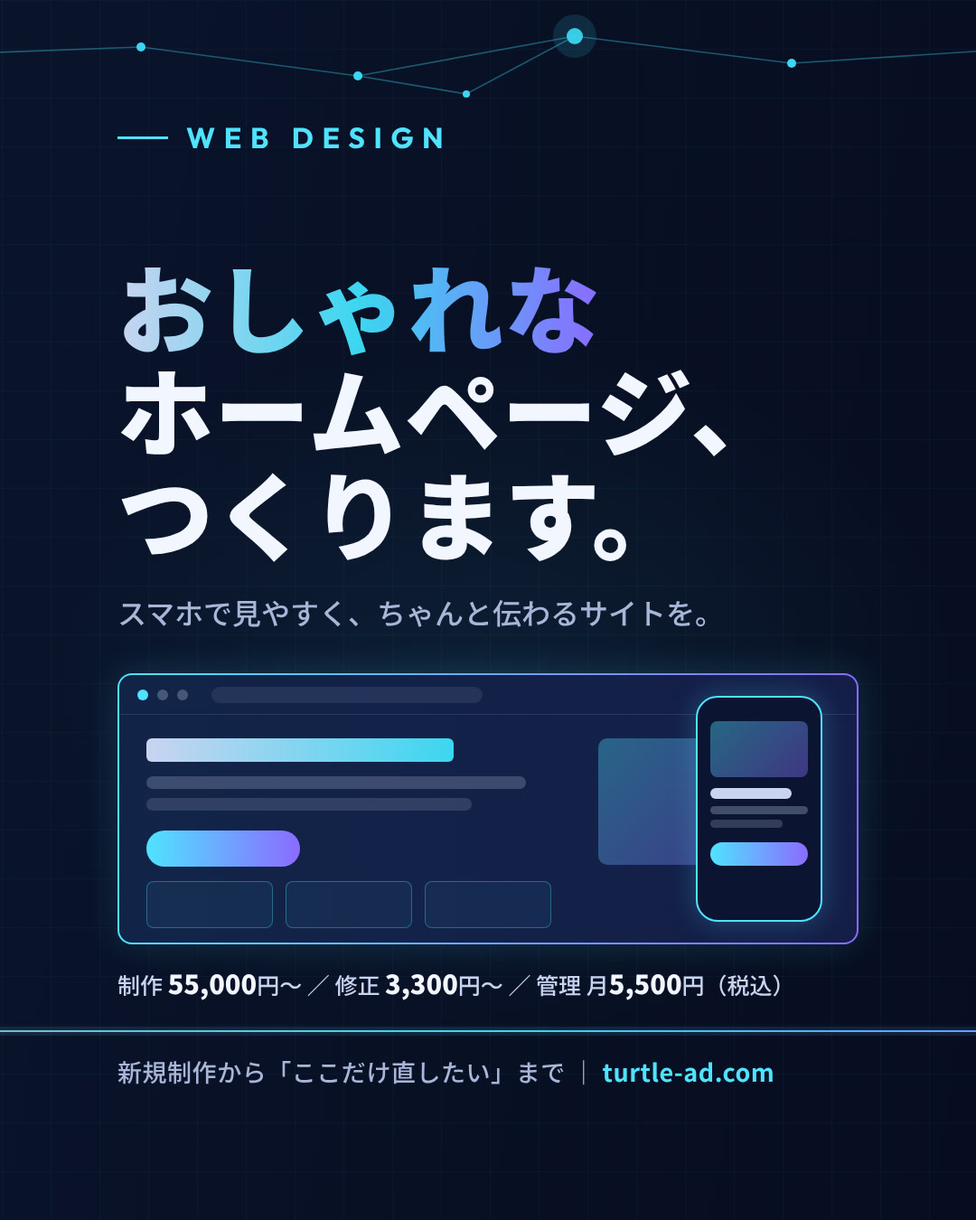
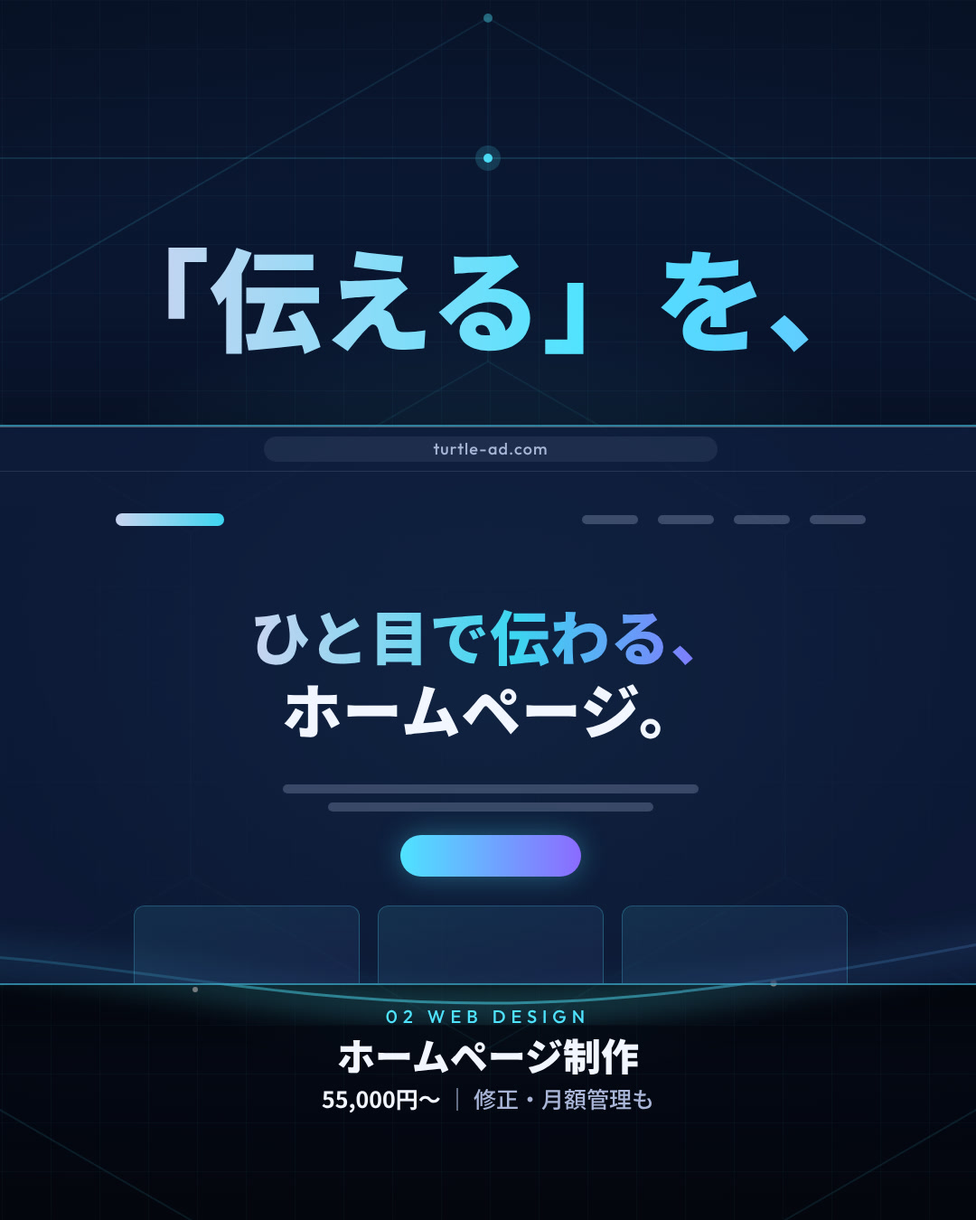
固定3枚を1枚絵のパノラマに作り直し(見出しを3枚に分割、ブラウザ画面が境目をまたぐ)
Claude-Session: https://claude.ai/code/session_01AEUD54a1kfyYiAYXhJ5bzU

diff --git a/img/pinned/pin_master.html b/img/pinned/pin_master.html
@@ -1,165 +1,145 @@
 <!doctype html>
 <html lang="ja"><head><meta charset="utf-8">
-<link href="https://fonts.googleapis.com/css2?family=Noto+Sans+JP:wght@500;700;900&family=Outfit:wght@500;700&display=swap" rel="stylesheet">
+<link href="https://fonts.googleapis.com/css2?family=Noto+Sans+JP:wght@500;700;900&family=Outfit:wght@300;500;700&display=swap" rel="stylesheet">
 <link href="https://fonts.googleapis.com/css2?family=M+PLUS+Rounded+1c:wght@800&text=turtle%20ad&display=swap" rel="stylesheet">
 <style>
 *{margin:0;padding:0;box-sizing:border-box}
-html,body{width:3128px;height:1350px;background:#05091a}
+html,body{width:3128px;height:1350px;background:#04070f}
 .m{position:relative;width:3128px;height:1350px;overflow:hidden;font-family:'Noto Sans JP',sans-serif;color:#f2f6ff;
  background:
-  radial-gradient(700px 620px at 2900px 150px, rgba(40,110,170,.55), transparent 70%),
-  radial-gradient(760px 560px at 1564px 760px, rgba(79,227,255,.07), transparent 70%),
-  radial-gradient(700px 640px at 300px 1250px, rgba(80,50,160,.50), transparent 70%),
-  linear-gradient(100deg,#0b1a36 0%,#081024 50%,#06091a 100%);}
-.grid{position:absolute;inset:0;background-image:linear-gradient(rgba(79,227,255,.035) 1px,transparent 1px),linear-gradient(90deg,rgba(79,227,255,.035) 1px,transparent 1px);background-size:54px 54px}
-svg.deco{position:absolute;left:0;top:0;width:3128px;height:1350px}
-.t{position:absolute;top:0;width:1080px;height:1350px}
-.label{position:absolute;left:130px;top:132px;display:flex;align-items:center;gap:20px;font-family:'Outfit',sans-serif;font-weight:700;font-size:32px;letter-spacing:.3em;color:#4fe3ff}
-.label i{display:block;width:56px;height:3px;background:#4fe3ff}
-.h{position:absolute;left:130px;font-weight:900;line-height:1.08;letter-spacing:.01em}
-.g{background:linear-gradient(90deg,#c9d4f0 0%,#3CD6F0 50%,#8b6bff 100%);-webkit-background-clip:text;background-clip:text;color:transparent}
-.sub{position:absolute;left:130px;font-weight:700;color:#c9d4f0}
-.desc{position:absolute;left:130px;font-size:32px;font-weight:500;color:#a9b6d8;line-height:1.6}
-.card{position:absolute;border-radius:16px;background:rgba(16,28,60,.72);border:1.5px solid rgba(169,182,216,.16)}
-.hi{border:2px solid transparent;background-image:linear-gradient(rgba(14,26,62,.95),rgba(14,26,62,.95)),linear-gradient(90deg,#4fe3ff,#8b6bff);background-origin:border-box;background-clip:padding-box,border-box;box-shadow:0 0 40px rgba(79,227,255,.16)}
-.foot{position:absolute;left:130px;top:1166px;font-size:27px;font-weight:500;color:#a9b6d8;letter-spacing:.02em}
-.foot b{color:#4fe3ff;font-weight:700}
-/* tile1 list */
-.list{left:130px;top:770px;width:820px;height:350px;padding:26px 40px}
-.row{display:flex;align-items:center;height:59.6px;border-bottom:1px solid rgba(169,182,216,.12)}
-.row:last-child{border-bottom:none}
-.row .no{font-family:'Outfit',sans-serif;font-weight:700;font-size:26px;letter-spacing:.06em;width:70px;color:#4fe3ff}
-.row .nm{font-size:32px;font-weight:700}
-.row .tag{margin-left:auto;font-size:22px;font-weight:500;color:#a9b6d8}
-.logo{position:absolute;left:740px;top:118px;display:flex;align-items:center;gap:12px}
-.logo svg{width:56px;height:56px;filter:drop-shadow(0 0 10px rgba(60,214,240,.45))}
-.logo span{font-family:'M PLUS Rounded 1c',sans-serif;font-weight:800;font-size:34px}
+  radial-gradient(800px 640px at 1564px 760px, rgba(79,227,255,.20), transparent 70%),
+  radial-gradient(700px 560px at 2650px 420px, rgba(139,107,255,.28), transparent 70%),
+  radial-gradient(700px 600px at 420px 1000px, rgba(40,110,190,.22), transparent 70%),
+  linear-gradient(180deg,#0b1a36 0%,#081024 55%,#04070f 100%);}
+.vig{position:absolute;inset:0;background:radial-gradient(1900px 900px at 1564px 700px, transparent 55%, rgba(2,4,10,.65) 100%)}
+.grid{position:absolute;inset:0;background-image:linear-gradient(rgba(79,227,255,.04) 1px,transparent 1px),linear-gradient(90deg,rgba(79,227,255,.04) 1px,transparent 1px);background-size:54px 54px}
+svg.layer{position:absolute;left:0;top:0;width:3128px;height:1350px}
+.ab{position:absolute}
+/* top row */
+.logo{left:110px;top:140px;display:flex;align-items:center;gap:14px}
+.logo svg{width:58px;height:58px;filter:drop-shadow(0 0 10px rgba(60,214,240,.5))}
+.logo span{font-family:'M PLUS Rounded 1c',sans-serif;font-weight:800;font-size:40px}
 .logo em{font-style:normal;color:#3CD6F0}
-/* tile2 browser */
-.br{left:130px;top:745px;width:820px;height:300px;overflow:hidden}
-.bar{height:44px;border-bottom:1px solid rgba(169,182,216,.16);display:flex;align-items:center;gap:10px;padding:0 20px}
-.bar i{width:12px;height:12px;border-radius:50%;background:rgba(169,182,216,.35)}
-.bar i:first-child{background:#4fe3ff}
-.bar span{margin-left:16px;height:18px;width:300px;border-radius:9px;background:rgba(169,182,216,.12)}
-.hero{position:absolute;left:30px;top:70px;width:470px}
-.hero .l1{height:26px;width:340px;border-radius:6px;background:linear-gradient(90deg,#c9d4f0,#3CD6F0)}
-.hero .l2{margin-top:16px;height:14px;width:420px;border-radius:7px;background:rgba(169,182,216,.28)}
-.hero .l3{margin-top:10px;height:14px;width:360px;border-radius:7px;background:rgba(169,182,216,.2)}
-.hero .btn{margin-top:22px;height:40px;width:170px;border-radius:20px;background:linear-gradient(90deg,#4fe3ff,#8b6bff)}
-.tiles{position:absolute;left:30px;top:228px;display:flex;gap:14px}
-.tiles i{display:block;width:140px;height:52px;border-radius:8px;border:1.5px solid rgba(79,227,255,.35);background:rgba(79,227,255,.05)}
-.img{position:absolute;left:530px;top:70px;width:180px;height:140px;border-radius:10px;background:linear-gradient(135deg,rgba(79,227,255,.35),rgba(139,107,255,.35));}
-.ph{position:absolute;left:770px;top:770px;width:140px;height:250px;border-radius:24px;background:#0b1430;border:2px solid #4fe3ff;box-shadow:0 0 30px rgba(79,227,255,.25);padding:26px 14px}
-.ph .a{height:62px;border-radius:8px;background:linear-gradient(135deg,rgba(79,227,255,.4),rgba(139,107,255,.4))}
-.ph .b{margin-top:12px;height:12px;border-radius:6px;background:#c9d4f0;width:90px}
-.ph .c{margin-top:8px;height:9px;border-radius:5px;background:rgba(169,182,216,.35)}
-.ph .d{margin-top:6px;height:9px;border-radius:5px;background:rgba(169,182,216,.25);width:80px}
-.ph .e{margin-top:16px;height:26px;border-radius:13px;background:linear-gradient(90deg,#4fe3ff,#8b6bff)}
-.price{position:absolute;left:130px;top:1066px;font-size:25px;font-weight:500;color:#c9d4f0;line-height:1.5}
-.price b{font-weight:900;color:#f2f6ff;font-size:29px}
-/* tile3 */
-.svc{left:130px;width:480px;padding:28px 32px}
-.svc .k{font-size:36px;font-weight:900}
-.svc .s{margin-top:10px;font-size:26px;font-weight:500;color:#a9b6d8;line-height:1.55}
-.svc .p{margin-top:12px;font-size:28px;font-weight:700;color:#c9d4f0}
-.svc .p b{font-size:46px;font-weight:900;color:#4fe3ff;margin:0 4px}
-.pf{position:absolute;left:650px;top:600px;width:290px;height:515px;border-radius:40px;border:2.5px solid #4fe3ff;background:linear-gradient(180deg,rgba(20,40,90,.9),rgba(10,16,40,.95));box-shadow:0 0 50px rgba(79,227,255,.22);overflow:hidden}
-.pf .notch{position:absolute;left:105px;top:14px;width:80px;height:10px;border-radius:5px;background:rgba(169,182,216,.3)}
-.pf .scene{position:absolute;left:18px;top:44px;width:254px;height:300px;border-radius:18px;background:
- radial-gradient(160px 140px at 70% 30%, rgba(139,107,255,.55), transparent 70%),
- radial-gradient(160px 160px at 25% 75%, rgba(79,227,255,.45), transparent 70%), #101c3c}
-.pf .play{position:absolute;left:97px;top:150px;width:96px;height:96px;border-radius:50%;background:rgba(255,255,255,.14);border:2px solid rgba(255,255,255,.6)}
-.pf .play:after{content:'';position:absolute;left:38px;top:28px;border-left:30px solid #fff;border-top:19px solid transparent;border-bottom:19px solid transparent}
-.pf .reel{position:absolute;left:30px;top:58px;font-family:'Outfit',sans-serif;font-weight:700;font-size:18px;letter-spacing:.2em;color:#fff;opacity:.85}
-.pf .cap{position:absolute;left:30px;top:362px;width:230px}
-.pf .cap i{display:block;height:14px;border-radius:7px;background:#f2f6ff;margin-bottom:10px}
-.pf .cap i:nth-child(2){width:160px;background:rgba(242,246,255,.6)}
-.pf .wave{position:absolute;left:30px;top:440px;display:flex;align-items:center;gap:6px;height:44px}
-.pf .wave i{display:block;width:6px;border-radius:3px;background:linear-gradient(180deg,#4fe3ff,#8b6bff)}
+.tagr{right:108px;top:156px;font-family:'Outfit',sans-serif;font-weight:500;font-size:24px;letter-spacing:.3em;color:#a9c0ff}
+/* browser */
+.br{left:700px;top:470px;width:1730px;height:620px;border-radius:20px;background:rgba(14,28,60,.78);border:2px solid rgba(79,227,255,.5);box-shadow:0 40px 120px rgba(0,0,0,.6), inset 0 1px 0 rgba(255,255,255,.25);overflow:hidden}
+.br .bar{height:50px;border-bottom:1px solid rgba(169,182,216,.16);position:relative}
+.br .dots{position:absolute;left:24px;top:19px;display:flex;gap:10px}
+.br .dots i{width:12px;height:12px;border-radius:50%;background:rgba(169,182,216,.3)}
+.br .url{position:absolute;left:614px;top:11px;width:502px;height:28px;border-radius:14px;background:rgba(169,182,216,.10);font-family:'Outfit',sans-serif;font-size:18px;letter-spacing:.06em;color:#a9b6d8;text-align:center;line-height:28px}
+.br .nav{position:absolute;left:450px;top:96px;width:830px;display:flex;justify-content:space-between;align-items:center}
+.br .nav .lg{width:120px;height:14px;border-radius:7px;background:linear-gradient(90deg,#c9d4f0,#3CD6F0)}
+.br .nav .mn{display:flex;gap:22px}.br .nav .mn i{display:block;width:62px;height:10px;border-radius:5px;background:rgba(169,182,216,.3)}
+.br .eyebrow{position:absolute;left:450px;top:172px;width:830px;text-align:center;font-family:'Outfit',sans-serif;font-weight:500;font-size:20px;letter-spacing:.32em;color:#4fe3ff}
+.br .ttl{position:absolute;left:450px;top:190px;width:830px;text-align:center;font-weight:900;font-size:66px;line-height:1.22;letter-spacing:.01em}
+.br .ttl span{background:linear-gradient(90deg,#c9d4f0,#3CD6F0 55%,#8b6bff);-webkit-background-clip:text;background-clip:text;color:transparent}
+.br .lead{position:absolute;left:615px;top:396px;width:500px}
+.br .lead i{display:block;height:10px;border-radius:5px;background:rgba(169,182,216,.28);margin:0 auto 10px}
+.br .cta{position:absolute;left:765px;top:452px;width:200px;height:46px;border-radius:23px;background:linear-gradient(90deg,#4fe3ff,#8b6bff);box-shadow:0 0 30px rgba(79,227,255,.35)}
+.br .cards{position:absolute;left:470px;top:530px;display:flex;gap:20px}
+.br .cards i{display:block;width:250px;height:120px;border-radius:12px;border:1px solid rgba(79,227,255,.25);background:linear-gradient(160deg,rgba(79,227,255,.10),rgba(139,107,255,.08))}
+/* chat */
+.chat{left:150px;top:600px;width:750px;height:450px;border-radius:22px;background:rgba(16,30,64,.9);border:1.5px solid rgba(79,227,255,.6);box-shadow:0 0 60px rgba(79,227,255,.25), 0 30px 80px rgba(0,0,0,.55), inset 0 1px 0 rgba(255,255,255,.2);padding:28px 34px}
+.chat .hd{display:flex;align-items:center;gap:12px;font-family:'Outfit',sans-serif;font-weight:700;font-size:20px;letter-spacing:.24em;color:#a9c0ff}
+.chat .hd i{width:12px;height:12px;border-radius:50%;background:#4fe3ff;box-shadow:0 0 12px #4fe3ff}
+.chat .u{margin:34px 0 0 auto;width:fit-content;max-width:520px;padding:18px 26px;border-radius:22px 22px 6px 22px;background:linear-gradient(90deg,rgba(79,227,255,.22),rgba(139,107,255,.22));border:1px solid rgba(79,227,255,.35);font-size:28px;font-weight:700}
+.chat .a{margin-top:26px;width:560px;padding:22px 26px;border-radius:22px 22px 22px 6px;background:rgba(10,20,46,.9);border:1px solid rgba(169,182,216,.18)}
+.chat .a .who{display:flex;align-items:center;gap:10px;margin-bottom:16px}
+.chat .a .who b{width:30px;height:30px;border-radius:50%;background:radial-gradient(circle at 35% 35%,#4fe3ff,#8b6bff)}
+.chat .a .who span{font-family:'Outfit',sans-serif;font-size:18px;letter-spacing:.2em;color:#a9b6d8}
+.chat .a i{display:block;height:12px;border-radius:6px;margin-bottom:12px;background:linear-gradient(90deg,rgba(79,227,255,.75),rgba(139,107,255,.5));box-shadow:0 0 14px rgba(79,227,255,.35)}
+/* phone */
+.ph{left:2350px;top:430px;width:360px;height:680px;border-radius:52px;padding:3px;background:linear-gradient(160deg,#4fe3ff,#8b6bff);box-shadow:0 0 70px rgba(139,107,255,.35), 0 40px 100px rgba(0,0,0,.6)}
+.ph .in{position:relative;width:100%;height:100%;border-radius:49px;overflow:hidden;background:
+  radial-gradient(260px 240px at 70% 28%, rgba(139,107,255,.85), transparent 70%),
+  radial-gradient(280px 260px at 25% 62%, rgba(40,130,220,.75), transparent 70%),
+  linear-gradient(180deg,#141a4a,#081024)}
+.ph .notch{position:absolute;left:130px;top:16px;width:94px;height:26px;border-radius:13px;background:#04070f}
+.ph .reel{position:absolute;left:28px;top:62px;font-family:'Outfit',sans-serif;font-weight:700;font-size:18px;letter-spacing:.26em;color:#fff;opacity:.9}
+.ph .play{position:absolute;left:127px;top:250px;width:106px;height:106px;border-radius:50%;background:rgba(255,255,255,.16);border:2px solid rgba(255,255,255,.7);backdrop-filter:blur(4px)}
+.ph .play:after{content:'';position:absolute;left:42px;top:31px;border-left:34px solid #fff;border-top:21px solid transparent;border-bottom:21px solid transparent}
+.ph .cap{position:absolute;left:50%;transform:translateX(-50%);top:478px;white-space:nowrap;padding:10px 22px;border-radius:10px;background:rgba(4,7,15,.72);font-size:32px;font-weight:900}
+.ph .prog{position:absolute;left:28px;right:28px;top:600px;height:6px;border-radius:3px;background:rgba(255,255,255,.25)}
+.ph .prog:before{content:'';position:absolute;left:0;top:0;bottom:0;width:58%;border-radius:3px;background:linear-gradient(90deg,#4fe3ff,#8b6bff)}
+.ph .side{position:absolute;right:20px;top:330px;display:flex;flex-direction:column;gap:22px}
+.ph .side i{display:block;width:34px;height:34px;border-radius:50%;background:rgba(255,255,255,.22)}
+/* bottom */
+.svc{top:1112px}
+.svc .no{font-family:'Outfit',sans-serif;font-weight:500;font-size:20px;letter-spacing:.3em;color:#4fe3ff}
+.svc .nm{margin-top:6px;font-size:42px;font-weight:900;line-height:1.15}
+.svc .ds{margin-top:6px;font-size:25px;font-weight:500;color:#a9b6d8}
+.svc .ds b{color:#f2f6ff;font-weight:700}
 </style></head><body><div class="m">
 <div class="grid"></div>
 
-<svg class="deco" viewBox="0 0 3128 1350">
+<!-- back svg: big hexagon, top connector, light flow -->
+<svg class="layer" viewBox="0 0 3128 1350">
  <defs>
-  <linearGradient id="hz" x1="0" x2="1" y1="0" y2="0">
-   <stop offset="0" stop-color="#c9d4f0" stop-opacity=".15"/><stop offset=".15" stop-color="#c9d4f0" stop-opacity=".7"/>
-   <stop offset=".5" stop-color="#3CD6F0"/><stop offset=".85" stop-color="#8b6bff"/><stop offset="1" stop-color="#8b6bff" stop-opacity=".2"/>
+  <linearGradient id="flow" gradientUnits="userSpaceOnUse" x1="0" y1="0" x2="3128" y2="0">
+   <stop offset="0" stop-color="#3CD6F0" stop-opacity=".2"/><stop offset=".15" stop-color="#4fe3ff"/><stop offset=".55" stop-color="#4fe3ff"/><stop offset=".85" stop-color="#8b6bff"/><stop offset="1" stop-color="#8b6bff" stop-opacity=".2"/>
   </linearGradient>
+  <filter id="blur"><feGaussianBlur stdDeviation="14"/></filter>
  </defs>
- <!-- network band across top -->
- <g stroke="#3CD6F0" stroke-opacity=".38" stroke-width="1.6" fill="none">
-  <path d="M-20 70 L180 40 L420 78 L640 30 L860 64 L1180 52 L1420 84 L1660 40 L1900 70 L2240 48 L2480 86 L2700 36 L2950 72 L3150 50"/>
-  <path d="M180 40 L300 100 L420 78 M640 30 L740 96 L860 64 M1420 84 L1540 104 L1660 40 M2480 86 L2600 104 L2700 36"/>
-  <path d="M2700 36 L2820 200 L2950 72 M2820 200 L3010 290 L3128 230 M2820 200 L2700 330"/>
+ <g fill="none" stroke="#4fe3ff">
+  <polygon points="1564,20 2222,400 2222,1160 1564,1540 906,1160 906,400" stroke-width="2" stroke-opacity=".13"/>
+  <polygon points="1564,400 1893,590 1893,970 1564,1160 1235,970 1235,590" stroke-width="2" stroke-opacity=".08"/>
+  <path d="M1564 20 L1564 400 M2222 400 L1893 590 M2222 1160 L1893 970 M906 1160 L1235 970 M906 400 L1235 590" stroke-width="1.5" stroke-opacity=".08"/>
+  <path d="M906 400 L300 520 M2222 400 L2850 470" stroke-width="1" stroke-opacity=".2"/>
+  <line x1="560" y1="175" x2="2620" y2="175" stroke-width="1" stroke-opacity=".3"/>
  </g>
- <g fill="#3CD6F0">
-  <circle cx="180" cy="40" r="5"/><circle cx="420" cy="78" r="5"/><circle cx="640" cy="30" r="9" fill-opacity=".95"/><circle cx="860" cy="64" r="5"/>
-  <circle cx="300" cy="100" r="4"/><circle cx="740" cy="96" r="4"/><circle cx="1180" cy="52" r="5"/><circle cx="1420" cy="84" r="5"/>
-  <circle cx="1660" cy="40" r="9" fill-opacity=".95"/><circle cx="1540" cy="104" r="4"/><circle cx="1900" cy="70" r="5"/><circle cx="2240" cy="48" r="5"/>
-  <circle cx="2480" cy="86" r="5"/><circle cx="2600" cy="104" r="4"/><circle cx="2700" cy="36" r="5"/><circle cx="2950" cy="72" r="5"/>
-  <circle cx="2820" cy="200" r="10" fill-opacity=".95"/><circle cx="3010" cy="290" r="6"/><circle cx="2700" cy="330" r="5"/>
- </g>
- <g fill="#3CD6F0" fill-opacity=".14"><circle cx="640" cy="30" r="24"/><circle cx="1660" cy="40" r="24"/><circle cx="2820" cy="200" r="26"/></g>
- <!-- horizon line -->
- <rect x="0" y="1140" width="3128" height="2" fill="url(#hz)"/>
- <rect x="0" y="1136" width="3128" height="10" fill="url(#hz)" opacity=".12"/>
+ <g fill="#4fe3ff"><circle cx="1564" cy="20" r="5" fill-opacity=".6"/><circle cx="2222" cy="400" r="5" fill-opacity=".6"/><circle cx="906" cy="400" r="5" fill-opacity=".6"/><circle cx="300" cy="520" r="4" fill-opacity=".5"/><circle cx="2850" cy="470" r="4" fill-opacity=".5"/><circle cx="1564" cy="175" r="5"/><circle cx="1564" cy="175" r="14" fill-opacity=".18"/></g>
+ <path d="M-20,905 C420,980 700,1062 900,1056 S1300,1110 1564,1110 S2080,1046 2330,1004 S2860,892 3148,876" fill="none" stroke="url(#flow)" stroke-width="40" stroke-opacity=".32" filter="url(#blur)"/>
+ <path d="M-20,905 C420,980 700,1062 900,1056 S1300,1110 1564,1110 S2080,1046 2330,1004 S2860,892 3148,876" fill="none" stroke="url(#flow)" stroke-width="3" stroke-opacity=".95"/>
+ <g fill="#ffffff"><circle cx="520" cy="1000" r="3.5" fill-opacity=".9"/><circle cx="1240" cy="1095" r="3" fill-opacity=".8"/><circle cx="1880" cy="1088" r="3.5" fill-opacity=".9"/><circle cx="2600" cy="950" r="3" fill-opacity=".8"/></g>
 </svg>
 
-<!-- ===== tile 1 ===== -->
-<div class="t" style="left:0">
- <div class="label"><i></i>ABOUT US</div>
- <div class="logo"><svg viewBox="0 0 100 100"><polygon points="50,6 88.1,28 88.1,72 50,94 11.9,72 11.9,28" fill="#0D3A34" stroke="#3CD6F0" stroke-width="3" stroke-linejoin="round"/><polygon points="50,32 65.6,41 65.6,59 50,68 34.4,59 34.4,41" fill="none" stroke="#3CD6F0" stroke-width="2.5" stroke-linejoin="round"/><path d="M50 6 L50 32 M88.1 28 L65.6 41 M88.1 72 L65.6 59 M50 94 L50 68 M11.9 72 L34.4 59 M11.9 28 L34.4 41" stroke="#3CD6F0" stroke-width="2" stroke-linecap="round" fill="none" opacity="0.8"/><circle cx="50" cy="32" r="3" fill="#fff"/><circle cx="65.6" cy="41" r="3" fill="#fff"/><circle cx="65.6" cy="59" r="3" fill="#fff"/><circle cx="50" cy="68" r="3" fill="#fff"/><circle cx="34.4" cy="59" r="3" fill="#fff"/><circle cx="34.4" cy="41" r="3" fill="#fff"/><circle cx="50" cy="50" r="5" fill="#3CD6F0"/></svg><span>turtle <em>ad</em></span></div>
- <div class="sub" style="top:290px;font-size:46px">鹿児島の会社の</div>
- <div class="h" style="top:368px;font-size:112px">「<span class="g">伝える</span>」を、<br>まるごと。</div>
- <div class="desc" style="top:628px">紙とWebとAIで、お店や会社の<br>「伝えたい」をお手伝いします。</div>
- <div class="card list">
-  <div class="row"><span class="no">01</span><span class="nm">AI活用サポート</span><span class="tag">ChatGPT・Claude</span></div>
-  <div class="row"><span class="no">02</span><span class="nm">AI動画作成（リール）</span><span class="tag">縦型動画</span></div>
-  <div class="row"><span class="no">03</span><span class="nm">ホームページ制作</span><span class="tag">WordPress対応</span></div>
-  <div class="row"><span class="no">04</span><span class="nm">マイタウンガイド</span><span class="tag">地域情報誌</span></div>
-  <div class="row"><span class="no">05</span><span class="nm">マイタウンジョブ</span><span class="tag">求人媒体</span></div>
- </div>
- <div class="foot">鹿児島市 ｜ 地域情報誌 約5年 ｜ <b>ご相談は無料</b></div>
+<div class="vig"></div>
+<!-- browser (center, crosses both seams) -->
+<div class="ab br">
+ <div class="bar"><div class="dots"><i></i><i></i><i></i></div><div class="url">turtle-ad.com</div></div>
+ <div class="nav"><div class="lg"></div><div class="mn"><i></i><i></i><i></i><i></i></div></div>
+ <div class="ttl"><span>ひと目で伝わる、</span><br>ホームページ。</div>
+ <div class="lead"><i style="width:460px"></i><i style="width:360px"></i></div>
+ <div class="cta"></div>
+ <div class="cards"><i></i><i></i><i></i></div>
 </div>
 
-<!-- ===== tile 2 ===== -->
-<div class="t" style="left:1024px">
- <div class="label"><i></i>WEB DESIGN</div>
- <div class="h" style="top:280px;font-size:106px"><span class="g">おしゃれな</span><br>ホームページ、<br>つくります。</div>
- <div class="desc" style="top:652px">スマホで見やすく、ちゃんと伝わるサイトを。</div>
- <div class="card hi br">
-  <div class="bar"><i></i><i></i><i></i><span></span></div>
-  <div class="hero"><div class="l1"></div><div class="l2"></div><div class="l3"></div><div class="btn"></div></div>
-  <div class="img"></div>
-  <div class="tiles"><i></i><i></i><i></i></div>
- </div>
- <div class="ph"><div class="a"></div><div class="b"></div><div class="c"></div><div class="d"></div><div class="e"></div></div>
- <div class="price">制作 <b>55,000</b>円〜 ／ 修正 <b>3,300</b>円〜 ／ 管理 月<b>5,500</b>円（税込）</div>
- <div class="foot">新規制作から「ここだけ直したい」まで ｜ <b>turtle-ad.com</b></div>
+<!-- chat (left, front) -->
+<div class="ab chat">
+ <div class="hd"><i></i>AI ASSISTANT</div>
+ <div class="u">新メニューの紹介文、考えて</div>
+ <div class="a"><div class="who"><b></b><span>AI</span></div><i style="width:480px"></i><i style="width:500px"></i><i style="width:330px;margin-bottom:0"></i></div>
 </div>
 
-<!-- ===== tile 3 ===== -->
-<div class="t" style="left:2048px">
- <div class="label"><i></i>AI SOLUTIONS</div>
- <div class="h" style="top:280px;font-size:118px"><span class="g">AI</span>で、<br>仕事も動画も。</div>
- <div class="card svc" style="top:600px;height:230px">
-  <div class="k">AI活用サポート</div>
-  <div class="s">ChatGPT・Claudeを<br>毎日の仕事に。</div>
-  <div class="p" style="font-size:26px">初回相談 <span style="color:#4fe3ff;font-weight:900">無料</span></div>
- </div>
- <div class="card hi svc" style="top:858px;height:258px">
-  <div class="k">AI動画（リール）</div>
-  <div class="s">写真を送るだけで、<br>字幕・声入りの縦型動画に。</div>
-  <div class="p">1本<b>9,800</b>円（税込）</div>
- </div>
- <div class="pf">
-  <div class="notch"></div>
-  <div class="scene"></div>
-  <div class="reel">REEL</div>
-  <div class="play"></div>
-  <div class="cap"><i></i><i></i></div>
-  <div class="wave"><i style="height:14px"></i><i style="height:28px"></i><i style="height:40px"></i><i style="height:22px"></i><i style="height:34px"></i><i style="height:44px"></i><i style="height:26px"></i><i style="height:16px"></i><i style="height:32px"></i><i style="height:42px"></i><i style="height:20px"></i><i style="height:30px"></i><i style="height:12px"></i><i style="height:24px"></i><i style="height:38px"></i><i style="height:18px"></i><i style="height:28px"></i><i style="height:14px"></i></div>
- </div>
- <div class="foot">099-210-3511 ｜ <b>DMでもどうぞ</b></div>
-</div>
+<!-- phone (right, front) -->
+<div class="ab ph"><div class="in">
+ <div class="notch"></div><div class="reel">REEL</div>
+ <div class="play"></div>
+ <div class="side"><i></i><i></i><i></i></div>
+ <div class="cap">写真を送るだけ。</div>
+ <div class="prog"></div>
+</div></div>
+
+<!-- top row -->
+<div class="ab logo"><svg viewBox="0 0 100 100"><polygon points="50,6 88.1,28 88.1,72 50,94 11.9,72 11.9,28" fill="#0D3A34" stroke="#3CD6F0" stroke-width="3" stroke-linejoin="round"/><polygon points="50,32 65.6,41 65.6,59 50,68 34.4,59 34.4,41" fill="none" stroke="#3CD6F0" stroke-width="2.5" stroke-linejoin="round"/><path d="M50 6 L50 32 M88.1 28 L65.6 41 M88.1 72 L65.6 59 M50 94 L50 68 M11.9 72 L34.4 59 M11.9 28 L34.4 41" stroke="#3CD6F0" stroke-width="2" stroke-linecap="round" fill="none" opacity="0.8"/><circle cx="50" cy="32" r="3" fill="#fff"/><circle cx="65.6" cy="41" r="3" fill="#fff"/><circle cx="65.6" cy="59" r="3" fill="#fff"/><circle cx="50" cy="68" r="3" fill="#fff"/><circle cx="34.4" cy="59" r="3" fill="#fff"/><circle cx="34.4" cy="41" r="3" fill="#fff"/><circle cx="50" cy="50" r="5" fill="#3CD6F0"/></svg><span>turtle <em>ad</em></span></div>
+<div class="ab tagr">KAGOSHIMA ｜ WEB × AI</div>
+
+<!-- headline: one sentence across three tiles, one gradient -->
+<svg class="layer" viewBox="0 0 3128 1350">
+ <defs>
+  <linearGradient id="hl" gradientUnits="userSpaceOnUse" x1="300" y1="0" x2="2800" y2="0">
+   <stop offset="0" stop-color="#e6ecff"/><stop offset=".35" stop-color="#c9d4f0"/><stop offset=".55" stop-color="#4fe3ff"/><stop offset="1" stop-color="#9b7dff"/>
+  </linearGradient>
+ </defs>
+ <g font-family="Noto Sans JP" font-weight="900" font-size="124" fill="url(#hl)">
+  <text x="990" y="380" text-anchor="end">鹿児島の</text>
+  <text x="1564" y="380" text-anchor="middle">「伝える」を、</text>
+  <text x="2140" y="380" text-anchor="start">まるごと。</text>
+ </g>
+</svg>
+
+<!-- bottom services -->
+<div class="ab svc" style="left:110px"><div class="no">01  AI SUPPORT</div><div class="nm">AI活用サポート</div><div class="ds">ChatGPT・Claude ｜ <b>初回相談無料</b></div></div>
+<div class="ab svc" style="left:1164px;width:800px;text-align:center"><div class="no">02  WEB DESIGN</div><div class="nm">ホームページ制作</div><div class="ds"><b>55,000円〜</b> ｜ 修正・月額管理も</div></div>
+<div class="ab svc" style="left:2158px"><div class="no">03  AI MOVIE</div><div class="nm">AI動画作成</div><div class="ds">縦型動画 1本 <b>9,800円</b></div></div>
 </div></body></html>
